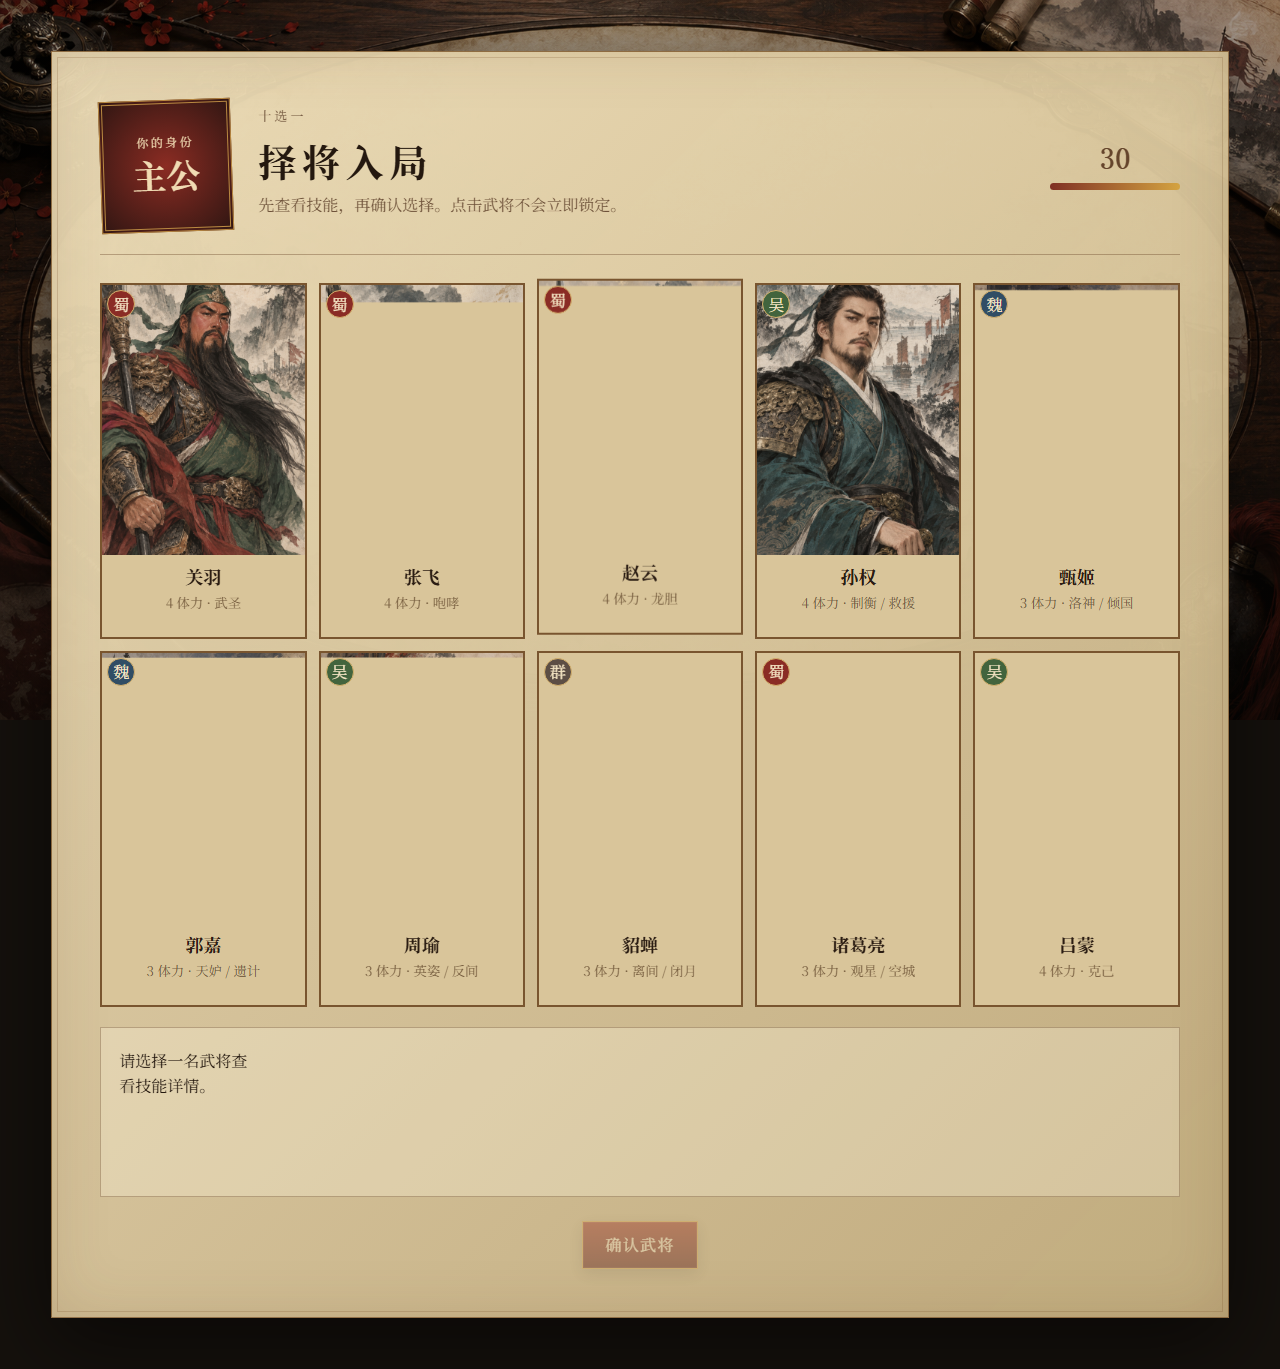
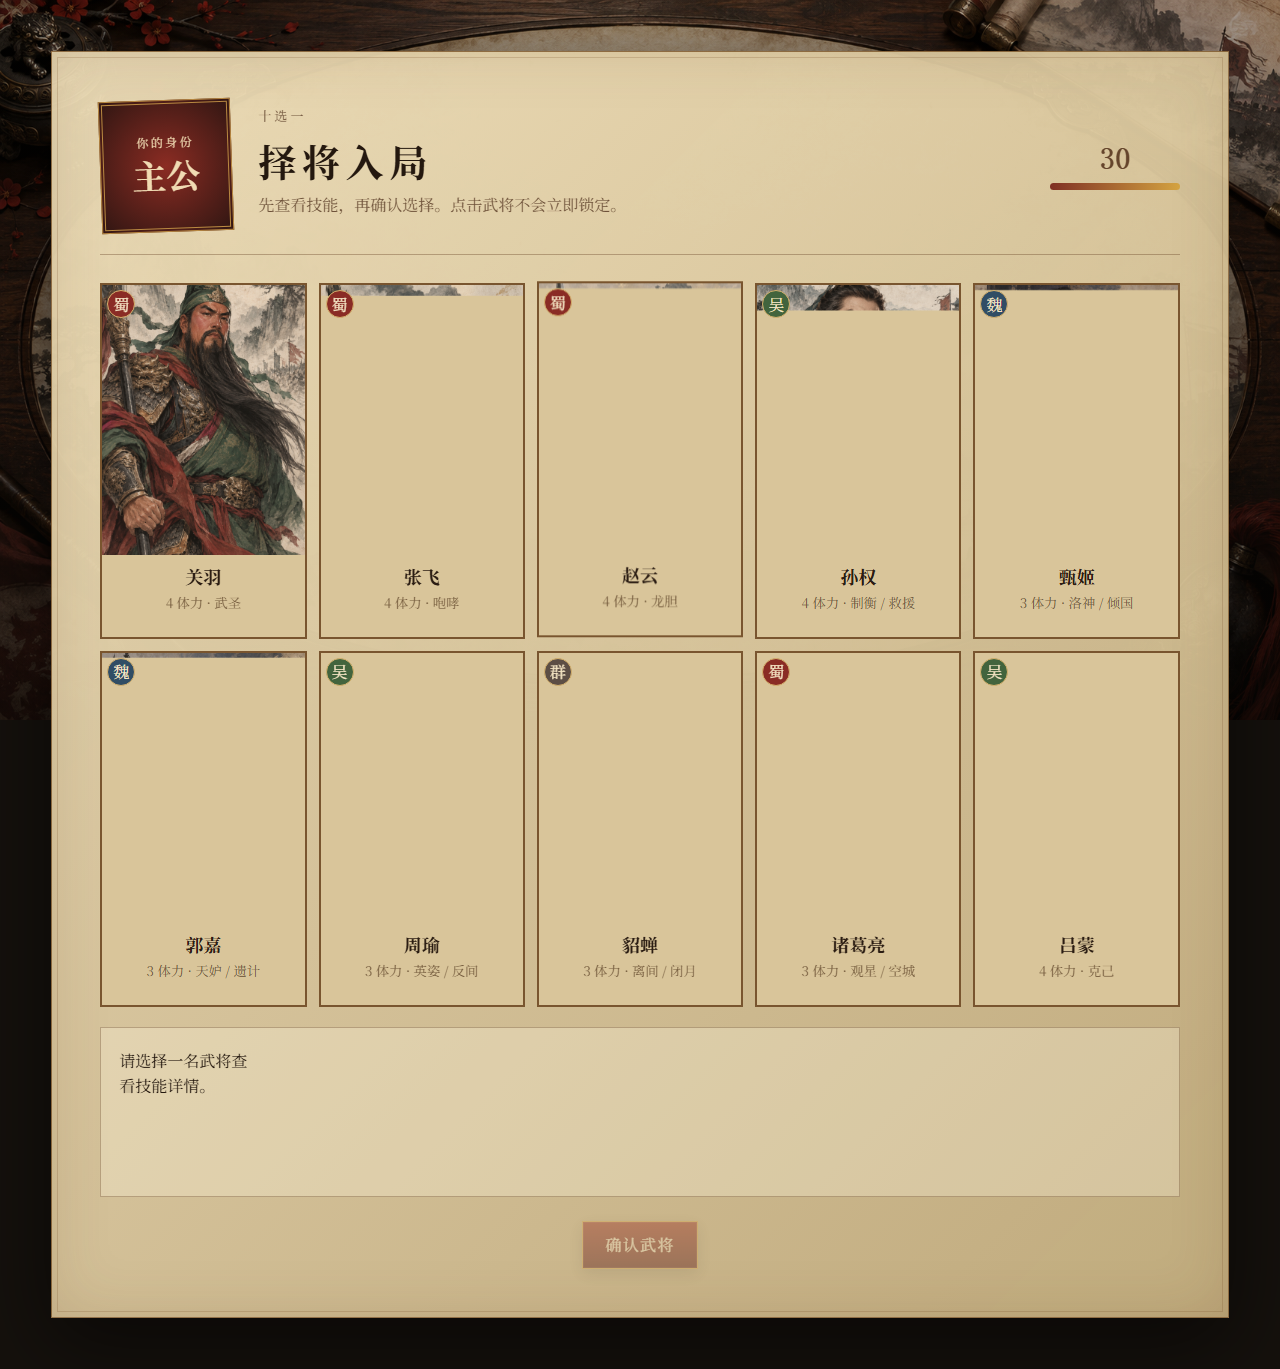
T9 stabilize visual screenshot capture

diff --git a/web/e2e/screenshots.spec.ts b/web/e2e/screenshots.spec.ts
@@ -48,6 +48,8 @@ test('T9 visual screenshot matrix', async ({ browser }) => {
     await guest.locator('.general-card').filter({ hasText: '张辽' }).click()
     await guest.getByRole('button', { name: '确认武将' }).click()
     await expect(host.locator('.game-page')).toBeVisible()
+    await host.locator('.player-panel img').evaluateAll((images) => Promise.all(images.map((image) =>
+      image.complete ? Promise.resolve() : new Promise<void>((resolve) => { image.addEventListener('load', () => resolve(), { once: true }); image.addEventListener('error', () => resolve(), { once: true }) }))))
     for (const size of [[1366, 768], [1600, 900], [1920, 1080]]) {
       await host.setViewportSize({ width: size[0], height: size[1] })
       await host.screenshot({ path: path.join(screenshotDir, 'table_' + size[0] + 'x' + size[1] + '.png'), fullPage: true })
